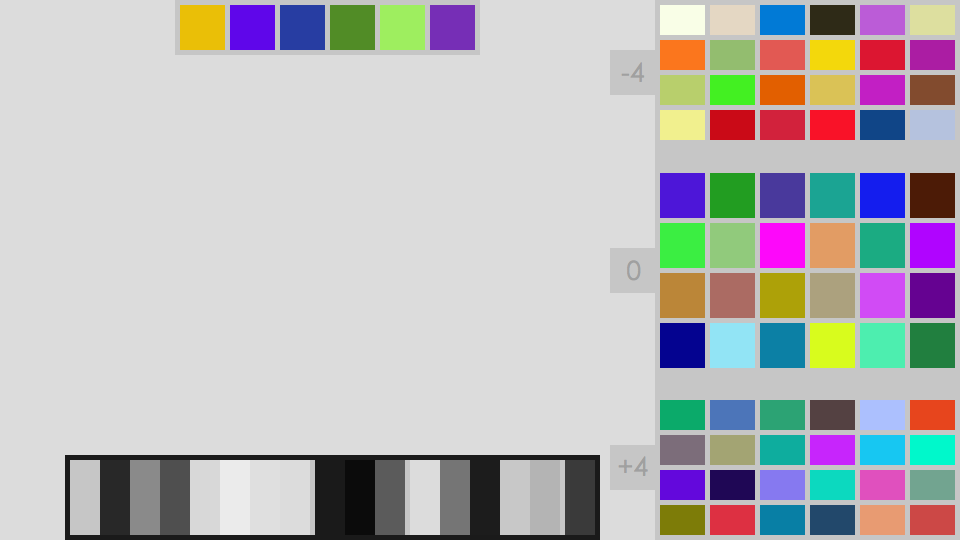
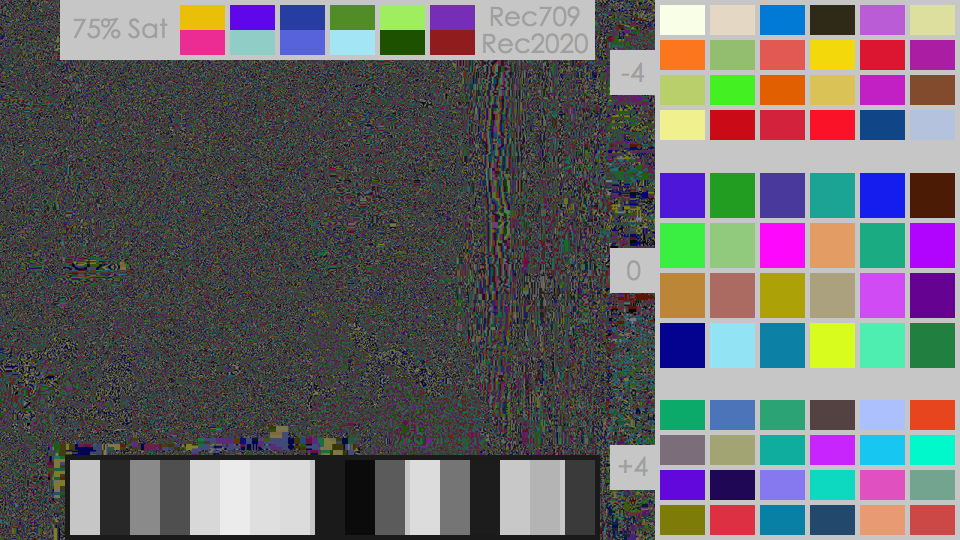
New high contrast preview image and bug fixes.

diff --git a/luttweaksbox.js b/luttweaksbox.js
@@ -480,8 +480,8 @@ LUTTweaksBox.prototype.tempShift = function() {
 	this.tempWindow.appendChild(document.createElement('br'));
 	this.tempWindow.appendChild(document.createElement('label').appendChild(document.createTextNode('CTO')));
 	this.tempCTSlider.setAttribute('type','range');
-	this.tempCTSlider.setAttribute('min',-1.75);
-	this.tempCTSlider.setAttribute('max',1.75);
+	this.tempCTSlider.setAttribute('min',-2);
+	this.tempCTSlider.setAttribute('max',2);
 	this.tempCTSlider.setAttribute('value',0);
 	this.tempCTSlider.setAttribute('step',0.125);
 	this.tempCTSliderLabel.innerHTML = 'Clear';
@@ -542,7 +542,7 @@ LUTTweaksBox.prototype.gotCATs = function(cats) {
 }
 LUTTweaksBox.prototype.updateTempSlider = function() {
 	var val = parseFloat(this.tempCTSlider.value);
-	var ratio = Math.exp(val*0.6018616199);
+	var ratio = Math.exp(val*0.5415972824);
 	var base = Math.round(parseFloat(this.tempBase.value));
 	var temp = base*ratio;
 	if (temp < 1800) {
@@ -579,7 +579,7 @@ LUTTweaksBox.prototype.changeBaseTemp = function() {
 	} else {
 		this.tempBase.value = base.toString();
 	}
-	var val = Math.log(parseFloat(this.tempNew.value)/parseFloat(this.tempBase.value))/0.6018616199;
+	var val = Math.log(parseFloat(this.tempNew.value)/parseFloat(this.tempBase.value))/0.5415972824;
 	var valEight = Math.round(8*val)/8;
 	val = +val.toFixed(3);
 	this.tempCTSlider.value = val.toString();
@@ -601,7 +601,7 @@ LUTTweaksBox.prototype.changeNewTemp = function() {
 	} else {
 		this.tempNew.value = temp.toString();
 	}
-	var val = Math.log(parseFloat(this.tempNew.value)/parseFloat(this.tempBase.value))/0.6018616199;
+	var val = Math.log(parseFloat(this.tempNew.value)/parseFloat(this.tempBase.value))/0.5415972824;
 	var valEight = Math.round(8*val)/8;
 	val = +val.toFixed(3);
 	this.tempCTSlider.value = val.toString();

diff --git a/lutcalc.js b/lutcalc.js
@@ -99,27 +99,34 @@ lutInputs.tweaks.onchange = function(){
 //			Highlight Gamut Tweak
 lutInputs.tweakHGCheck.onchange = function(){
 	lutTweaksBox.toggleHighGamutCheck();
+	lutMessage.gtSetParams();
 }
 lutInputs.tweakHGSelect.onchange = function(){
 	lutMessage.gtSetParams();
 }
 lutInputs.tweakHGLinLog[0].onchange = function(){
 	lutTweaksBox.toggleHighGamutLinLog();
+	lutMessage.gtSetParams();
 }
 lutInputs.tweakHGLinLog[1].onchange = function(){
 	lutTweaksBox.toggleHighGamutLinLog();
+	lutMessage.gtSetParams();
 }
 lutInputs.tweakHGLinLow.onchange = function(){
 	lutTweaksBox.changeHighGamutLinLow();
+	lutMessage.gtSetParams();
 }
 lutInputs.tweakHGLinHigh.onchange = function(){
 	lutTweaksBox.changeHighGamutLinHigh();
+	lutMessage.gtSetParams();
 }
 lutInputs.tweakHGLow.onchange = function(){
 	lutTweaksBox.changeHighGamutLogLow();
+	lutMessage.gtSetParams();
 }
 lutInputs.tweakHGHigh.onchange = function(){
 	lutTweaksBox.changeHighGamutLogHigh();
+	lutMessage.gtSetParams();
 }
 //			Black Level Tweak
 lutInputs.tweakBlkCheck.onchange = function(){

diff --git a/lutpreview.js b/lutpreview.js
@@ -154,7 +154,6 @@ LUTPreview.prototype.loadedDefault = function() {
 	}
 }
 LUTPreview.prototype.sl3ToLin = function(input) {
- 0.1677922920,-0.0155818840, 0.2556207230, 4.7368421060,10.0000000000, 0.4105571850, 0.0526315790, 0.1673609920, 0.0125000000
  	if (input >= 0.1673609920) {
 		return (Math.pow(10,(input - 0.4105571850)/0.2556207230) - 0.0526315790)/4.7368421060;		
 	} else {
